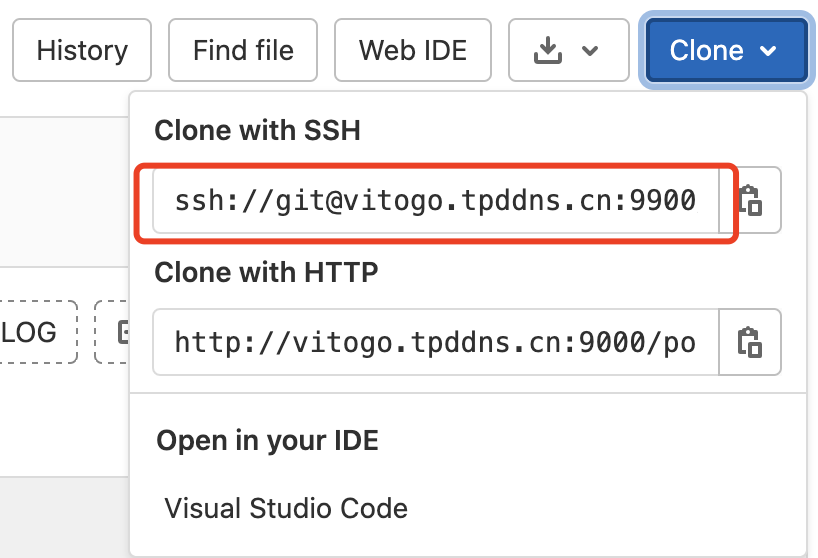
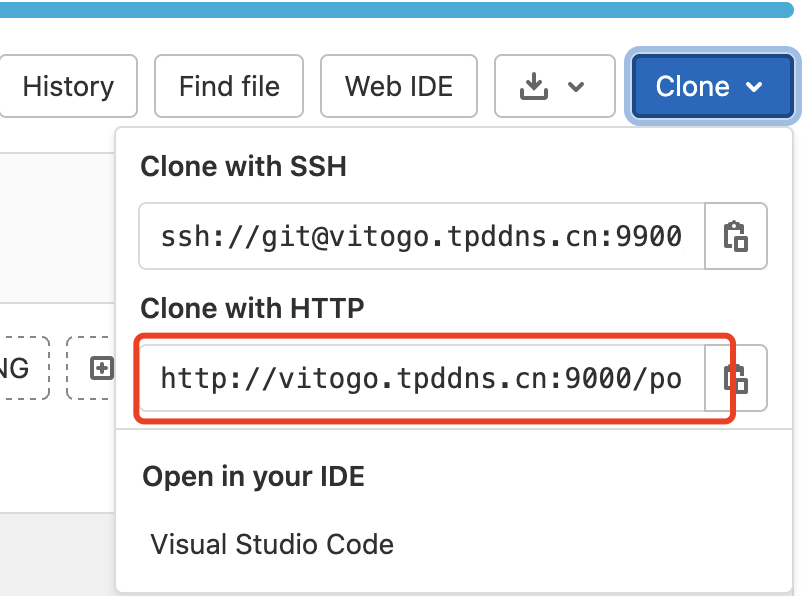
new article

Changed region(s): [[0.0, 0.0, 1.0, 1.0], [0.1543, 0.7616, 0.463, 0.8226]]

diff --git a/docs/posts/go/action/go-illegal-private-import/index.html b/docs/posts/go/action/go-illegal-private-import/index.html
@@ -11,7 +11,7 @@
 <meta itemprop="description" content="大家好，我是 polarisxu。 有一个朋友咨询一个问题： 实际项目中，使用 Go Module 难免会有一些自己的库要引用，这些库使用自建的 Git 服务管理，比如 GitLab 等。针对这样的情况，不少教程都是让设置 GOPRIVATE，即不走 GOPROXY。 然而，有些时候，不仅库是私有的，而且地址很可能不是「合规」的。什么是「不合规」的？ 不是 HTTPS 非 443 或 80 端口 直接使用 IP 地址 不是 HTTPS 问题不大，主要是非 443 或">
 <meta itemprop="datePublished" content="2021-09-12T17:00:00+08:00" />
 <meta itemprop="dateModified" content="2021-09-12T17:00:00+08:00" />
-<meta itemprop="wordCount" content="1626">
+<meta itemprop="wordCount" content="1703">
 
 
 
@@ -116,7 +116,7 @@
 <h2 id="02-module-名称">02 module 名称<a href="#02-module-名称" class="anchor" aria-hidden="true"><svg xmlns="http://www.w3.org/2000/svg" viewBox="0 0 24 24" fill="none" stroke="currentColor" stroke-width="2" stroke-linecap="round" stroke-linejoin="round"><path d="M15 7h3a5 5 0 0 1 5 5 5 5 0 0 1-5 5h-3m-6 0H6a5 5 0 0 1-5-5 5 5 0 0 1 5-5h3"></path><line x1="8" y1="12" x2="16" y2="12"></line></svg></a></h2>
 <p>那怎么办？</p>
 <p>我们可以借助 git 的功能，将 <code>vitogo.tpddns.cn:9000</code> 替换掉：（也可以直接修改 <code>~/.gitconfig</code> 文件）</p>
-<div class="highlight"><pre class="chroma"><code class="language-bash" data-lang="bash">git config --global url.<span class="s2">&#34;ssh://git@vitogo.tpddns.cn:9900/&#34;</span>.insteadof <span class="s2">&#34;https://{{gitlab_url}}/&#34;</span>
+<div class="highlight"><pre class="chroma"><code class="language-bash" data-lang="bash">git config --global url.<span class="s2">&#34;http://vitogo.tpddns.cn:9000/&#34;</span>.insteadof <span class="s2">&#34;https://{{gitlab_url}}/&#34;</span>
 </code></pre></div><p>这里有两点需要注意：</p>
 <p>1）url 后面的内容，具体什么值，需要根据你的情况定。</p>
 <p>可以通过你的自建仓库查看：</p>
@@ -125,12 +125,12 @@
     alt="查看 clone"  />
 </p>
 </p>
-<p>这里选择使用 ssh 方式，即使私有仓库，你配置上自己的 SSH KEY 即可正常 Pull。因此，你需要做 SSH KEY 配置。（如何配置，网上很容易查到教程，GitHub 上就有）</p>
-<p>我们这里使用了 <code>ssh://git@vitogo.tpddns.cn:9900/</code>，表示这个域名下所有的内容。</p>
+<p>这里选择 HTTP 方式（因为我创建了一个 public 仓库）。也可以选择使用 ssh 方式，这样即使私有仓库，你配置上自己的 SSH KEY 也可正常 Pull。（如何配置 SSH KEY，网上很容易查到教程，GitHub 上就有）</p>
+<p>我们这里使用了 <code>http://vitogo.tpddns.cn:9000/</code>，表示这个域名下所有的内容。</p>
 <p>2）insteadOf 后面的内容，表示访问这个链接时，将替换为上面 url 后的链接。</p>
 <p>这个值写什么？很显然，必须是合规的域名。我们任意使用一个域名试试，比如使用 <code>https://studygolang.com/</code>。</p>
 <p>这时，我们尝试执行如下命令：</p>
-<div class="highlight"><pre class="chroma"><code class="language-bash" data-lang="bash">$ git config --global url.<span class="s2">&#34;ssh://git@vitogo.tpddns.cn:9900/&#34;</span>.insteadof <span class="s2">&#34;https://studygolang.com/&#34;</span>
+<div class="highlight"><pre class="chroma"><code class="language-bash" data-lang="bash">$ git config --global url.<span class="s2">&#34;http://vitogo.tpddns.cn:9000/&#34;</span>.insteadof <span class="s2">&#34;https://studygolang.com/&#34;</span>
 <span class="c1"># 让 studygolang.com 不走 GOPROXY</span>
 $ go env -w <span class="nv">GOPRIVATE</span><span class="o">=</span>studygolang.com
 $ go get -v studygolang.com/polarisxu/testgo
@@ -147,7 +147,7 @@ go get: unrecognized import path <span class="s2">&#34;studygolang.com/polarisxu
 </blockquote>
 <p>网友希望使用 vitogo.tpddns.cn 这个他的域名，但同样有这个问题。如果要让它正常，需要做特殊处理，具体参考上面的文章。</p>
 <p>所以，我们使用一个非常用的现成 Git 公开托管服务，比如 gitea.com。（polarisxu/testgo 我打了一个 tag：v0.0.1）</p>
-<div class="highlight"><pre class="chroma"><code class="language-bash" data-lang="bash">$ git config --global url.<span class="s2">&#34;ssh://git@vitogo.tpddns.cn:9900/&#34;</span>.insteadof <span class="s2">&#34;https://gitea.com/&#34;</span>
+<div class="highlight"><pre class="chroma"><code class="language-bash" data-lang="bash">$ git config --global url.<span class="s2">&#34;http://vitogo.tpddns.cn:9000/&#34;</span>.insteadof <span class="s2">&#34;https://gitea.com/&#34;</span>
 $ go env -w <span class="nv">GOPRIVATE</span><span class="o">=</span>gitea.com
 $ go get -v gitea.com/polarisxu/testgo
 get <span class="s2">&#34;gitea.com/polarisxu/testgo&#34;</span>: found meta tag vcs.metaImport<span class="o">{</span>Prefix:<span class="s2">&#34;gitea.com/polarisxu/testgo&#34;</span>, VCS:<span class="s2">&#34;git&#34;</span>, RepoRoot:<span class="s2">&#34;https://gitea.com/polarisxu/testgo.git&#34;</span><span class="o">}</span> at //gitea.com/polarisxu/testgo?go-get<span class="o">=</span><span class="m">1</span>
@@ -197,6 +197,12 @@ Hello polarisxu
 </code></pre></div><p>正常输出我们期望的结果。</p>
 <h2 id="04-总结">04 总结<a href="#04-总结" class="anchor" aria-hidden="true"><svg xmlns="http://www.w3.org/2000/svg" viewBox="0 0 24 24" fill="none" stroke="currentColor" stroke-width="2" stroke-linecap="round" stroke-linejoin="round"><path d="M15 7h3a5 5 0 0 1 5 5 5 5 0 0 1-5 5h-3m-6 0H6a5 5 0 0 1-5-5 5 5 0 0 1 5-5h3"></path><line x1="8" y1="12" x2="16" y2="12"></line></svg></a></h2>
 <p>通过了解 go get 的基本原理，知晓 git 的一些处理方式，以及 GOPRIVATE 的作用。我相信遇到类似的问题，你自己也能够解决了。</p>
+<p>注意，如果 gitea.com 你有实际使用，可以选择 gitee.com、try.gogs.io 等。</p>
+<p>另外，关于本文的问题，Go 有几个相关 issue 讨论：</p>
+<ul>
+<li><a href="https://github.com/golang/go/issues/34436">https://github.com/golang/go/issues/34436</a></li>
+<li><a href="https://github.com/golang/go/issues/38213">https://github.com/golang/go/issues/38213</a></li>
+</ul>
 <h2 id="参考文章">参考文章<a href="#参考文章" class="anchor" aria-hidden="true"><svg xmlns="http://www.w3.org/2000/svg" viewBox="0 0 24 24" fill="none" stroke="currentColor" stroke-width="2" stroke-linecap="round" stroke-linejoin="round"><path d="M15 7h3a5 5 0 0 1 5 5 5 5 0 0 1-5 5h-3m-6 0H6a5 5 0 0 1-5-5 5 5 0 0 1 5-5h3"></path><line x1="8" y1="12" x2="16" y2="12"></line></svg></a></h2>
 <ul>
 <li>私有化仓库的 GO 模块使用实践：<a href="https://studygolang.com/articles/35235">https://studygolang.com/articles/35235</a></li>
@@ -230,7 +236,7 @@ Hello polarisxu
 				<p>
 					<svg xmlns="http://www.w3.org/2000/svg" width="24" height="24" viewBox="0 0 24 24" fill="none" stroke="currentColor" stroke-width="2" stroke-linecap="round" stroke-linejoin="round" class="feather feather-tag meta-icon"><path d="M20.59 13.41l-7.17 7.17a2 2 0 0 1-2.83 0L2 12V2h10l8.59 8.59a2 2 0 0 1 0 2.82z"></path><line x1="7" y1="7" x2="7" y2="7"></line></svg><span class="tag"><a href="https://polarisxu.studygolang.com/tags/go">Go</a></span><span class="tag"><a href="https://polarisxu.studygolang.com/tags/module">Module</a></span>
 				</p>
-				<p><svg xmlns="http://www.w3.org/2000/svg" width="24" height="24" viewBox="0 0 24 24" fill="none" stroke="currentColor" stroke-width="2" stroke-linecap="round" stroke-linejoin="round" class="feather feather-file-text"><path d="M14 2H6a2 2 0 0 0-2 2v16a2 2 0 0 0 2 2h12a2 2 0 0 0 2-2V8z"></path><polyline points="14 2 14 8 20 8"></polyline><line x1="16" y1="13" x2="8" y2="13"></line><line x1="16" y1="17" x2="8" y2="17"></line><polyline points="10 9 9 9 8 9"></polyline></svg>1626 字</p>
+				<p><svg xmlns="http://www.w3.org/2000/svg" width="24" height="24" viewBox="0 0 24 24" fill="none" stroke="currentColor" stroke-width="2" stroke-linecap="round" stroke-linejoin="round" class="feather feather-file-text"><path d="M14 2H6a2 2 0 0 0-2 2v16a2 2 0 0 0 2 2h12a2 2 0 0 0 2-2V8z"></path><polyline points="14 2 14 8 20 8"></polyline><line x1="16" y1="13" x2="8" y2="13"></line><line x1="16" y1="17" x2="8" y2="17"></line><polyline points="10 9 9 9 8 9"></polyline></svg>1703 字</p>
 				<p><svg xmlns="http://www.w3.org/2000/svg" width="24" height="24" viewBox="0 0 24 24" fill="none" stroke="currentColor" stroke-width="2" stroke-linecap="round" stroke-linejoin="round" class="feather feather-calendar"><rect x="3" y="4" width="18" height="18" rx="2" ry="2"></rect><line x1="16" y1="2" x2="16" y2="6"></line><line x1="8" y1="2" x2="8" y2="6"></line><line x1="3" y1="10" x2="21" y2="10"></line></svg>2021-09-12 17:00 &#43;0800</p>
 			</footer>
 		</article>
